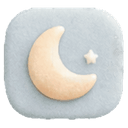
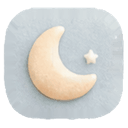
修复「我的」列表图标边缘烘焙黑线：整条边缘带熨平后重压同名覆盖

diff --git a/miniapp/art/me-redesign/clean-icon-fringe.py b/miniapp/art/me-redesign/clean-icon-fringe.py
@@ -1,16 +1,18 @@
-"""BEN2 图标产物暗边去污:straight-alpha resize 的黑 RGB 渗色修复。
+"""BEN2 图标产物暗边修复:fringe 黑渗色去污 + 熨平设计稿烘焙深边。
 
-根因:BEN2 输出透明区 RGB=(0,0,0),prepare/clean 两段的 LANCZOS resize 走
-straight-alpha(RGB 与 A 各自独立插值),透明邻点的黑 RGB 按权重混进半透明边
-像素,而 alpha 通道单独插值不匹配 → 边缘 1-3px 的半透明像素 straight RGB 发暗
-(实测 fringe 均值 ~(60-94)),贴白卡合成显灰黑脏边,drop-shadow 再投影更脏。
+两个叠加来源(取证见 _scratch_edge_diag.py 与 ref 剖面比对):
+1. 渗色:BEN2 透明区 RGB=(0,0,0),straight-alpha LANCZOS resize 让黑 RGB
+   渗进半透明 fringe(a<200),贴白卡显灰晕;
+2. 烘焙深边:设计稿 ui-3_v2 的牌体外缘自带 ~10px 暗边渐变(最外 2px
+   亮度 86% → 内渐 99%),在参考稿奶油底上是自然体积,贴 app 白卡就是
+   用户指的「浅浅的黑线」。项目惯例:列表图标影一律 CSS,资产不带烘焙影。
 
-做法(不改 alpha 形状,只修颜色):
-1. 颜色去污:a<SOLID 的像素 RGB 用 8 邻域迭代膨胀从 solid 区向外延展替换
-   (fringe 宽 <=3px,迭代 6 轮足够),alpha 原样保留;
-2. 预乘 resize:RGB*A 预乘后与 A 一起 LANCZOS 缩到 128px,再反预乘,
-   杜绝缩放再次渗黑;
-3. 产物 ref-*-defringe.png 供 compress-v9.mjs 同名覆盖包内 icon-me-*-v8.png。
+做法(不改 alpha 形状,只修颜色):距轮廓外(a==0)BAND px 内、a>0 的整条
+边缘带,RGB 用 interior 颜色 8 邻域迭代膨胀替换;小物件(星/月尖)全落在
+带内时按 DEPTHS 逐级退浅色源补填。随后预乘 alpha LANCZOS 缩到 128px。
+产物 ref-*-defringe.png 供 compress-v9.mjs 同名覆盖包内 icon-me-*-v8.png。
+注:本脚本是存量产物的一次性修复;prepare-ben2-me.py 已改预乘 resize,
+未来 BEN2 重跑不再有渗色,烘焙深边若再出现可重跑本脚本熨平。
 """
 from pathlib import Path
 
@@ -19,43 +21,61 @@ from PIL import Image
 
 ROOT = Path(__file__).resolve().parent
 FINAL = ROOT / 'prepared' / 'final'
-SOLID = 200          # alpha>=200 视为实色,作为颜色源
-DILATE_ROUNDS = 6    # fringe <=3px,6 轮 8 邻域膨胀足够覆盖
+SOLID = 200          # interior 判定:alpha>=200 且带外,作为颜色源
+BAND = 16            # 边缘带宽度:中段(物件接触影邻接)深边渐变到 d≈15 才回 99%
+DEPTHS = (16, 12, 8, 5, 3)  # 逐级退浅的色源深度:小物件(星/月尖)全落在带内时兜底
+DILATE_ROUNDS = 20   # 8 邻域迭代膨胀,含沿边缘带绕过尖角的传播
 TARGET = 128         # 与 d18fa54 包内尺寸一致(84rpx@3x≈131px,够用)
 
 
-def defringe_rgb(arr: np.ndarray) -> np.ndarray:
-    """半透明 fringe 的 RGB 用 solid 区颜色迭代膨胀替换,alpha 不动。"""
-    rgb = arr[:, :, :3].astype(np.float64)
+def dilate(mask: np.ndarray, rounds: int) -> np.ndarray:
+    out = mask.copy()
+    for _ in range(rounds):
+        d = out.copy()
+        d[1:, :] |= out[:-1, :]
+        d[:-1, :] |= out[1:, :]
+        d[:, 1:] |= out[:, :-1]
+        d[:, :-1] |= out[:, 1:]
+        out = d
+    return out
+
+
+def recolor_edge_band(arr: np.ndarray) -> np.ndarray:
+    """边缘带(fringe+烘焙深边)RGB 用 interior 颜色迭代膨胀替换,alpha 不动。"""
     a = arr[:, :, 3]
-    solid = a >= SOLID
-    fringe = (a > 0) & ~solid
-    if not fringe.any():
+    outside = a == 0
+    band = dilate(outside, BAND) & (a > 0)
+    if not band.any():
         return arr
+    rgb = arr[:, :, :3].astype(np.float64)
     work = rgb.copy()
-    filled = solid.copy()
-    for _ in range(DILATE_ROUNDS):
-        todo = fringe & ~filled
-        if not todo.any():
+    filled = np.zeros_like(band)
+    for depth in DEPTHS:
+        source = (a >= SOLID) & ~dilate(outside, depth)
+        filled |= source
+        for _ in range(DILATE_ROUNDS):
+            todo = band & ~filled
+            if not todo.any():
+                break
+            acc = np.zeros_like(work)
+            cnt = np.zeros(work.shape[:2])
+            for dy in (-1, 0, 1):
+                for dx in (-1, 0, 1):
+                    if dy == 0 and dx == 0:
+                        continue
+                    src = np.roll(np.roll(filled, dy, axis=0), dx, axis=1)
+                    acc += np.roll(np.roll(work, dy, axis=0), dx, axis=1) * src[:, :, None]
+                    cnt += src
+            grow = todo & (cnt > 0)
+            work[grow] = acc[grow] / cnt[grow][:, None]
+            filled |= grow
+        if not (band & ~filled).any():
             break
-        acc = np.zeros_like(work)
-        cnt = np.zeros((work.shape[0], work.shape[1]))
-        for dy in (-1, 0, 1):
-            for dx in (-1, 0, 1):
-                if dy == 0 and dx == 0:
-                    continue
-                src = np.roll(np.roll(filled, dy, axis=0), dx, axis=1)
-                val = np.roll(np.roll(work, dy, axis=0), dx, axis=1)
-                acc += val * src[:, :, None]
-                cnt += src
-        grow = todo & (cnt > 0)
-        work[grow] = acc[grow] / cnt[grow][:, None]
-        filled |= grow
+    left = int((band & ~filled).sum())
+    if left:
+        print(f'  warn: {left} band px unfilled, kept original RGB')
     out = arr.copy()
     out[:, :, :3] = work.round().clip(0, 255).astype(np.uint8)
-    left = int((fringe & ~filled).sum())
-    if left:
-        print(f'  warn: {left} fringe px unfilled, kept original RGB')
     return out
 
 
@@ -76,12 +96,15 @@ def pm_resize(im: Image.Image, size: int) -> Image.Image:
 
 for path in sorted(FINAL.glob('ref-*-ben2.png')):
     arr = np.array(Image.open(path).convert('RGBA'))
-    fringe = (arr[:, :, 3] > 0) & (arr[:, :, 3] < SOLID)
-    before = arr[:, :, :3][fringe].mean(axis=0).round(1) if fringe.any() else None
-    cleaned = defringe_rgb(arr)
-    after = cleaned[:, :, :3][fringe].mean(axis=0).round(1) if fringe.any() else None
+    a = arr[:, :, 3]
+    band = dilate(a == 0, BAND) & (a > 0)
+    interior = (a >= SOLID) & ~band
+    before = arr[:, :, :3][band].mean(axis=0).round(1) if band.any() else None
+    ref = arr[:, :, :3][interior].mean(axis=0).round(1) if interior.any() else None
+    cleaned = recolor_edge_band(arr)
+    after = cleaned[:, :, :3][band].mean(axis=0).round(1) if band.any() else None
     icon = pm_resize(Image.fromarray(cleaned), TARGET)
     out = FINAL / path.name.replace('-ben2.png', '-defringe.png')
     icon.save(out)
-    print(f'{path.name}: fringe RGB {before} -> {after}, saved {out.name} {icon.size}')
+    print(f'{path.name}: band RGB {before} -> {after} (interior {ref}), saved {out.name}')
 print('done')

diff --git a/miniapp/src/pages/me/context.md b/miniapp/src/pages/me/context.md
@@ -1,5 +1,9 @@
 # 工作记录
 
+- 时间：2026-09-16 09:31
+- 原因：用户反馈第一轮修复后图标边缘仍有「浅浅的黑线」。取证（ref 剖面与设计稿 ui-3_v2.png 逐点比对）：暗环是满 alpha 像素上的烘焙深边——设计稿牌体外缘自带 ~10-15px 暗边渐变（最外 2px 亮度 86%→内渐 99%），在参考稿奶油底上自然、贴 app 白卡即显黑线；非 BEN2 渗色残留。项目惯例：列表图标影一律 CSS，资产不带烘焙影。
+- 修改：`clean-icon-fringe.py` 重写为整条边缘带熨平——距轮廓外(a==0)BAND=16px 内 a>0 像素 RGB 用 interior 色源 8 邻域迭代膨胀替换（alpha 形状不动），DEPTHS=(16,12,8,5,3) 逐级退浅色源兜底星/月尖小物件；`compress-v9.mjs` 删 state 重压 TinyPNG 同名覆盖包内 `icon-me-*-v8.png`（10.1-11.9KB/张）。修后六枚 edge ratio 均值 0.99-1.0，before/after 对照图（prepared/_cmp/_before_after_v2.png）目检黑线消失。build:weapp fresh dist 待开发者工具验收（同名覆盖需清「全部缓存」再重编译）。
+
 - 时间：2026-09-15 19:45
 - 原因：用户反馈列表图标边缘发脏。取证（_scratch_edge_diag.py）：BEN2 透明区 RGB=(0,0,0)，prepare/clean 两段 LANCZOS resize 走 straight-alpha，黑 RGB 渗进半透明边像素（fringe 实测 meanRGB ≈60-94、宽 1-3px），贴白卡合成显灰黑脏边，`.me-page__icon` 的 drop-shadow 再投影更脏；d18fa54 的 128px 降尺直缩再放大一次。
 - 修改：新增 `clean-icon-fringe.py`（fringe RGB 用 solid 区颜色 8 邻域迭代膨胀替换 + 预乘 alpha resize 到 128px，alpha 形状不动）；`compress-v9.mjs` 走 TinyPNG 同名覆盖包内 `icon-me-*-v8.png`（11-12.6KB/张）；`prepare-ben2-me.py`/`clean-icon-stray.py` 的 resize 改预乘、prepare 加 defringe 步杜根。修后 fringe meanRGB 回物件本色（蓝牌 ≈195/203/204、米牌 ≈232/201/166）。全量 568 测试过；build:weapp fresh dist 待开发者工具验收。
